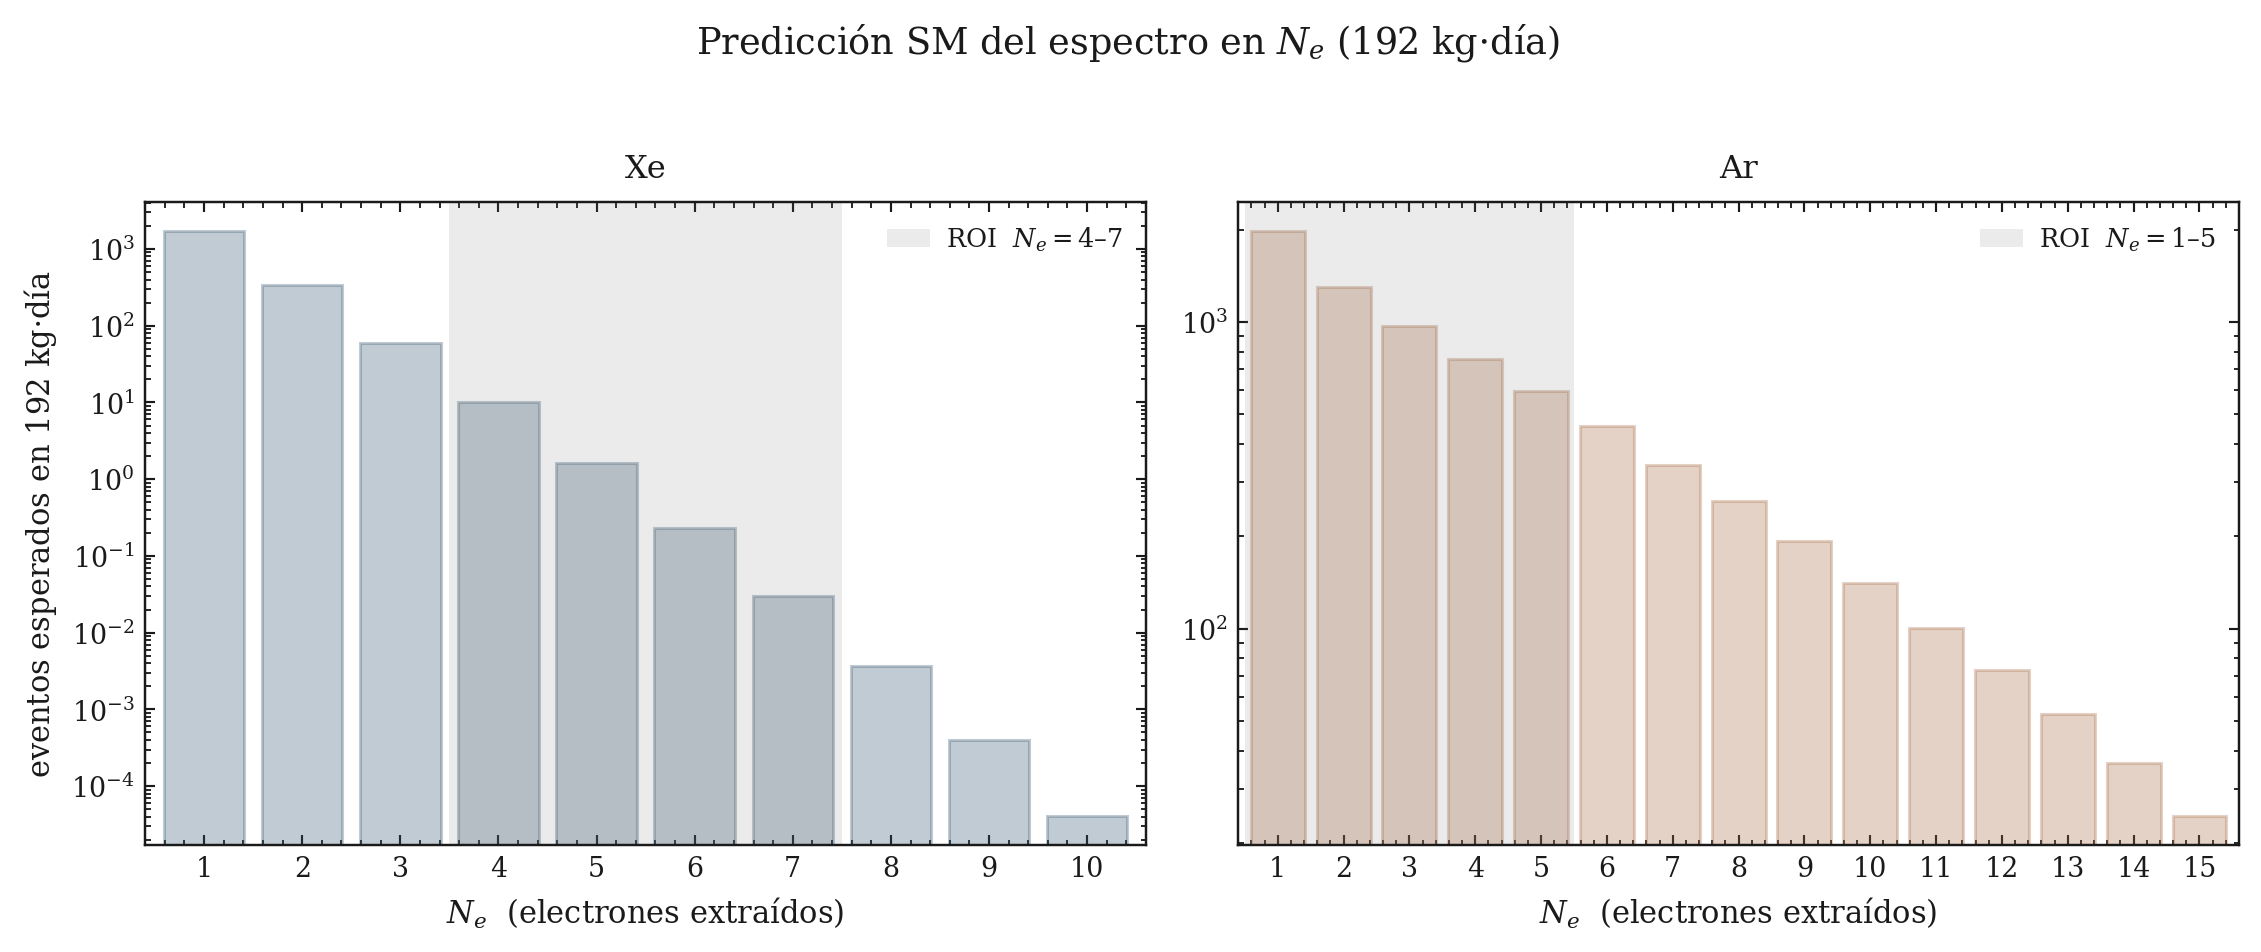
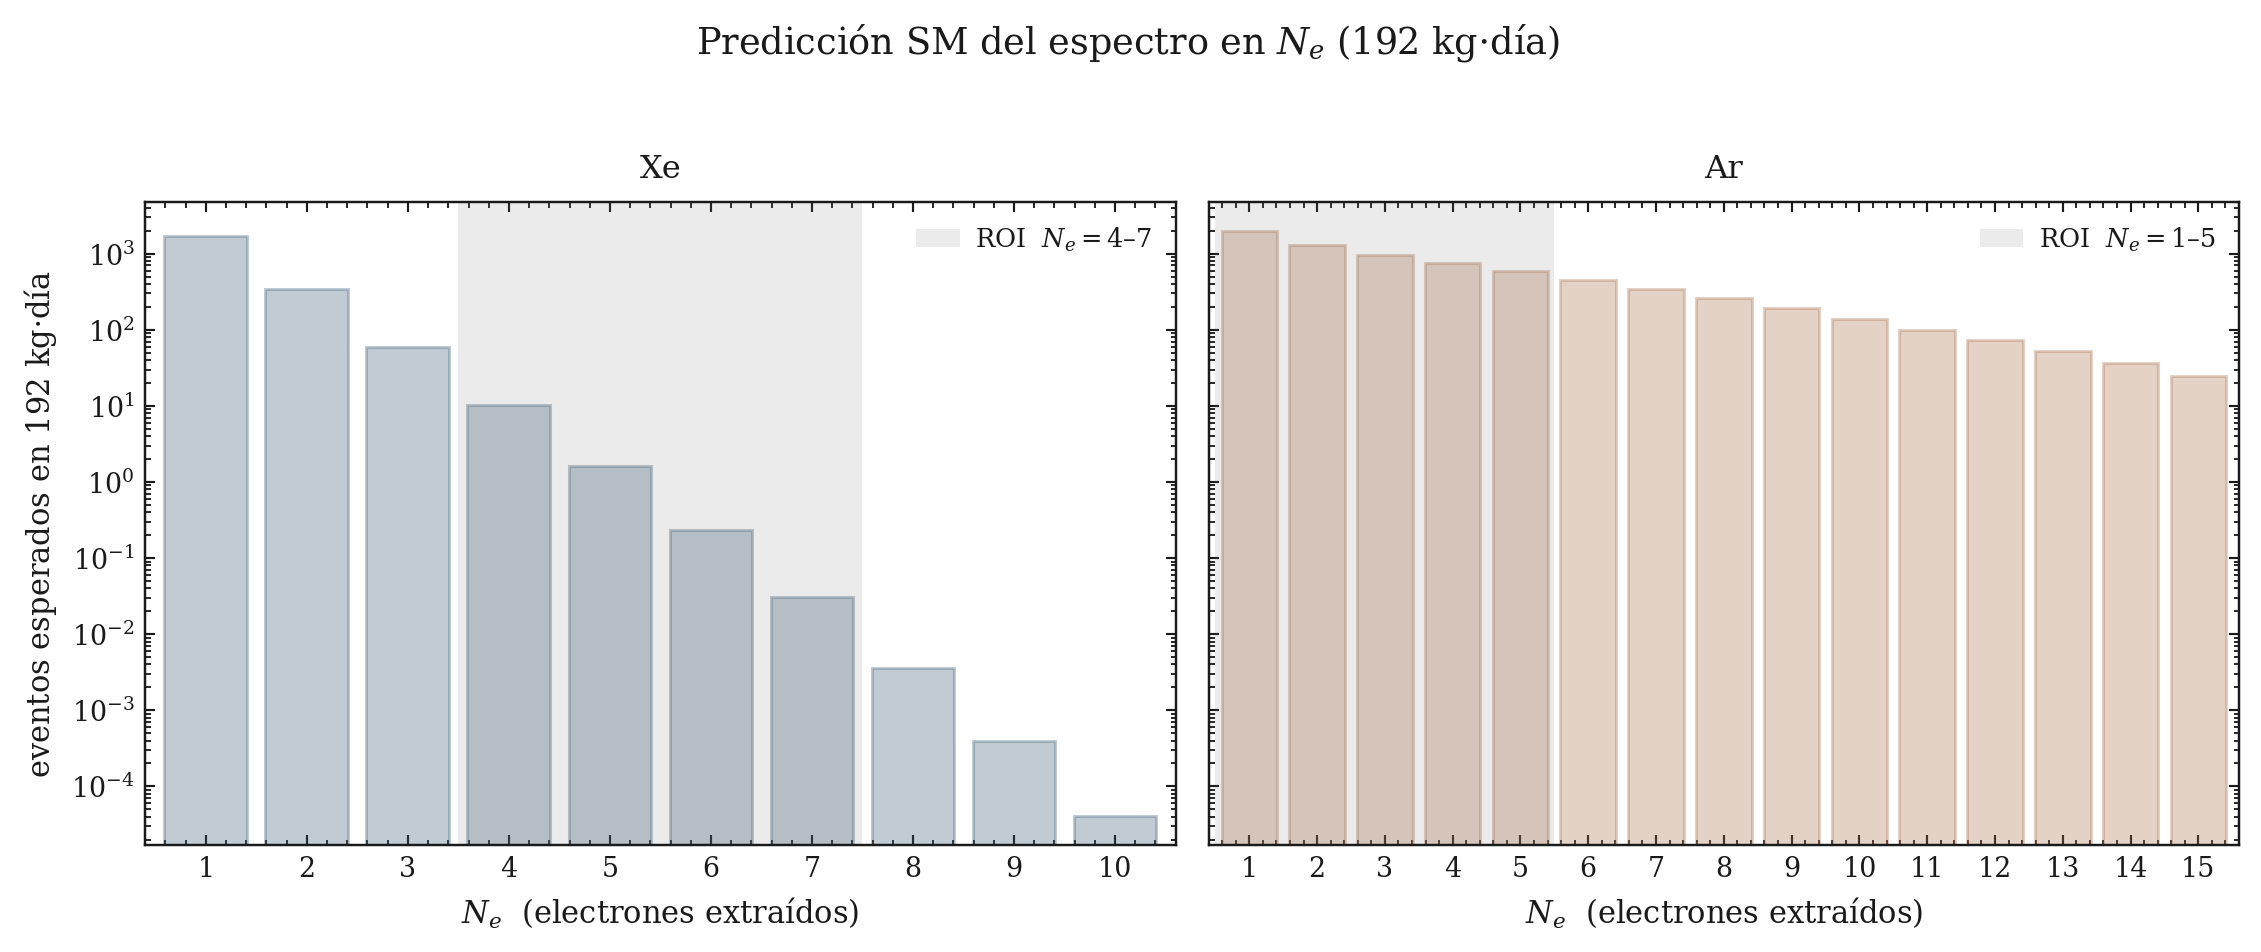
Comparte el eje Y entre Xe y Ar en fig_ne_prediction_XeAr (antes no era comparable)
Claude-Session: https://claude.ai/code/session_01WVSW2HJzTJRfGVPcfUpxDT

diff --git a/python/ne_prediction_XeAr.py b/python/ne_prediction_XeAr.py
@@ -24,7 +24,7 @@ EXPO = 192.0                       # kg*dia, tabla tab:ideal
 ROI = {"Xe": (4, 7), "Ar": (1, 5)}
 KMAX = {"Xe": 10, "Ar": 15}
 
-fig, axes = plt.subplots(1, 2, figsize=(10.4, 4.2), sharey=False)
+fig, axes = plt.subplots(1, 2, figsize=(10.4, 4.2), sharey=True)
 
 for ax, (tag, col) in zip(axes, (("Xe", C_XE), ("Ar", C_AR))):
     d = np.loadtxt(f"{BASE}/espectro_Ne_ideal_{tag}.dat", comments="#")
